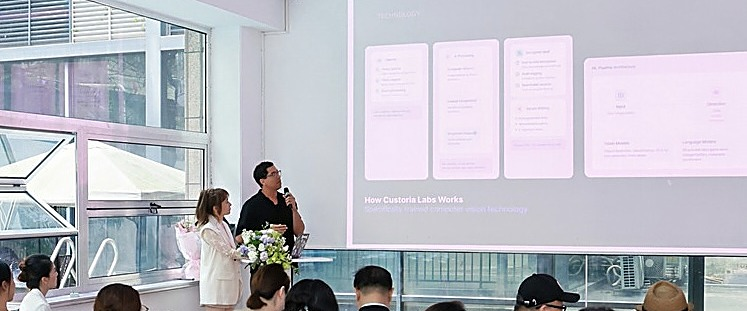
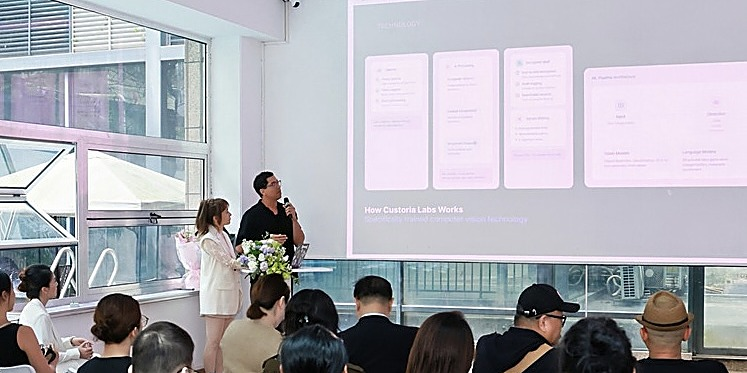
Custoria hero: wider 2:1 crop to show more of the audience

diff --git a/app/work/custoria/page.tsx b/app/work/custoria/page.tsx
@@ -17,7 +17,7 @@ export default function Custoria() {
         src="/work/cu-event.jpg"
         alt="Anton Castro presenting Custoria Labs at a demo day, the 'How Custoria Labs Works' slide projected behind him to a seated audience"
         width={2600}
-        height={1083}
+        height={1300}
       />
       <CaseLayout
         company="Custoria Labs · co-founded with Yiyi Qin"